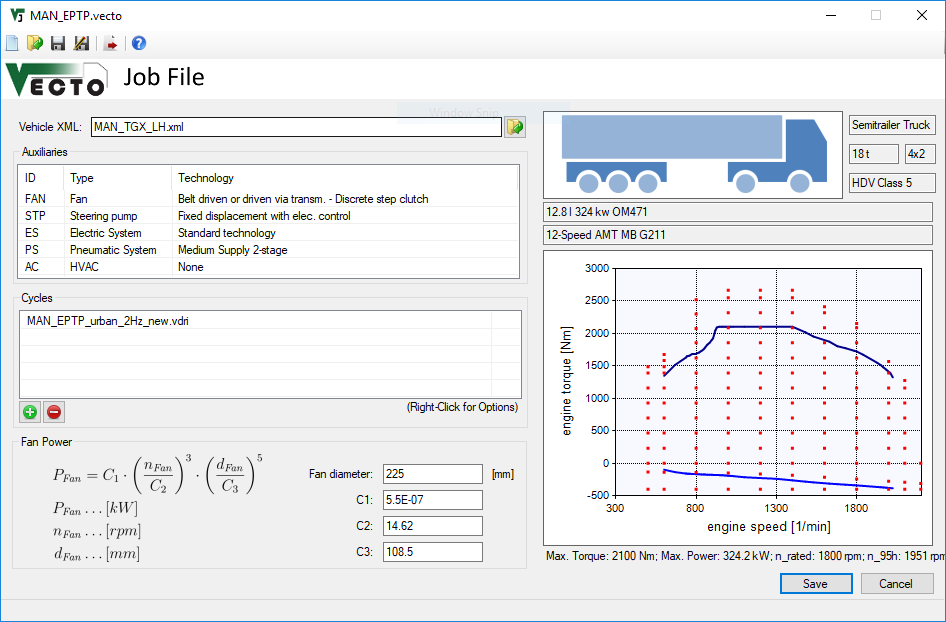
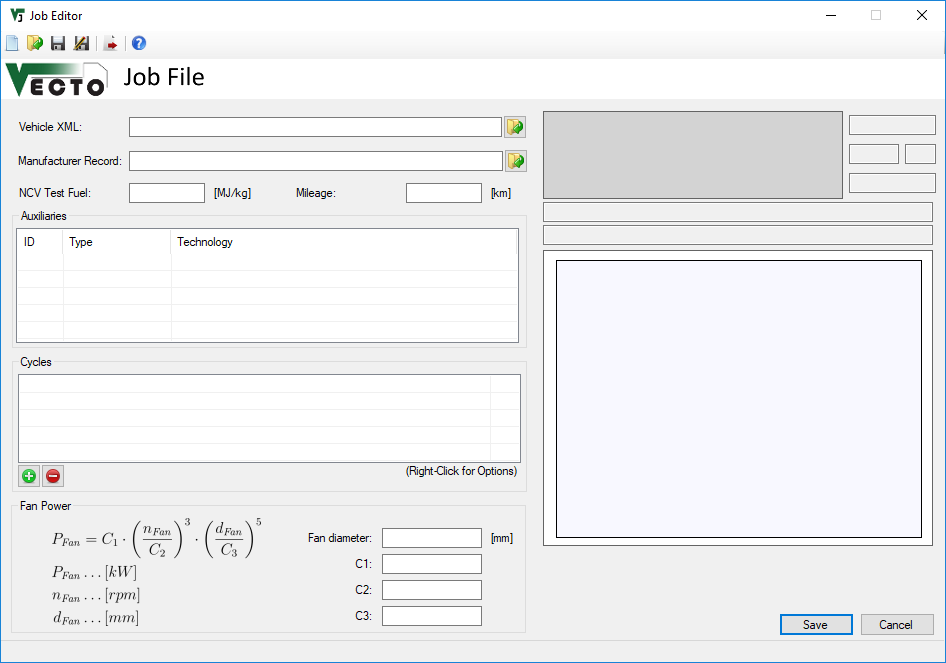
documentation: update screenshot vtp job editor, some more description of vtp simulations, differences engineering/declaration

diff --git a/Documentation/User Manual/1-user-interface/D2_VTP-Job-Editor.md b/Documentation/User Manual/1-user-interface/D2_VTP-Job-Editor.md
@@ -6,11 +6,24 @@
 
 ###Description
 
+A VTP-Job is intended to verify the declared data of a vehicle through an on-road test. VTP-Jobs can be either simulated in engineering mode or declaration mode. For a VTP simulation the measured driving cycle along with the VECTO job-file is required. The driving cycle has to contain the vehicle's velocity, rotational speed of the driven wheels, torque of the driven wheels, and fuel consumption in a temporal resolution of 2Hz.
+VECTO computes the best matching gear based on the vehicle parameters, the actual vehicle speed and the engine speed.
+Next, VECTO re-computes the fuel consumption based for the given driving cycle. For a VTP-test the re-computed fuel consumption has to be within certain limits of the real fuel consumption.
+
 The [VTP job file (.vecto)](#vtp-job-file) includes all informations to run a VECTO calculation. It defines the vehicle and the driving cycle(s) to be used for calculation. In summary it defines:
 
 -   Filepath to the Vehicle File (.xml)](#vehicle-editor which defines all relevant parameters, including all components
 -   Driving Cycles
 
+
+<div class="engineering">
+	In engineering mode multiple driving cycles can be specified
+</div>
+<div class="declaration">
+In declaration mode only the first given driving cycle is simulated as the results are further compared with the re-simulated Long-Haul results.
+
+In declaration mode the manufacturer's record file needs to be provided. Furthermore, declaration mode simulations consider correction factors for the net calorific value of the used fuel and the vehicle's mileage. In engineering mode the according input fields are not shown.
+</div>
 
 ###Relative File Paths
 
